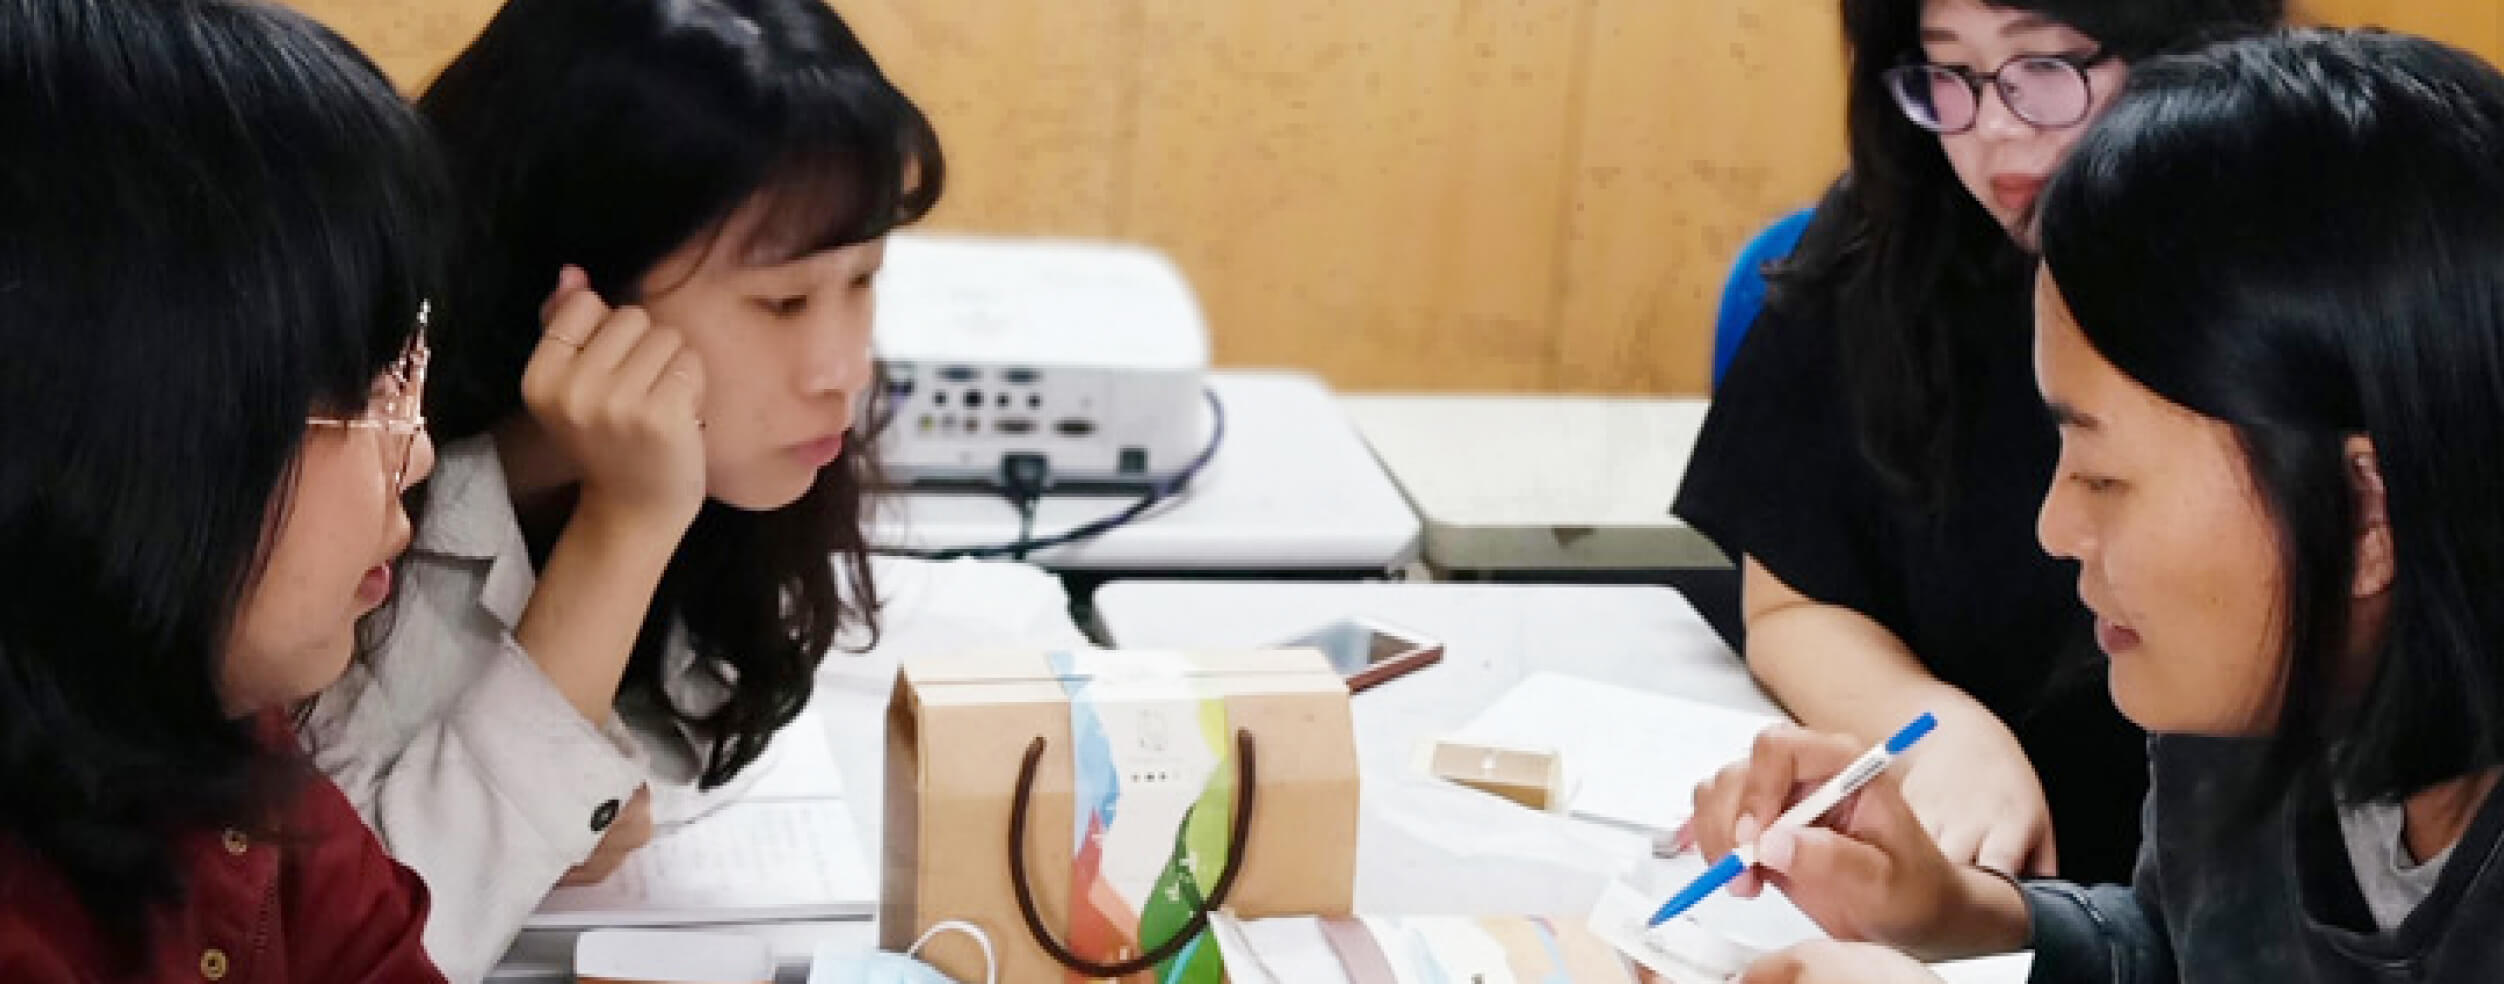
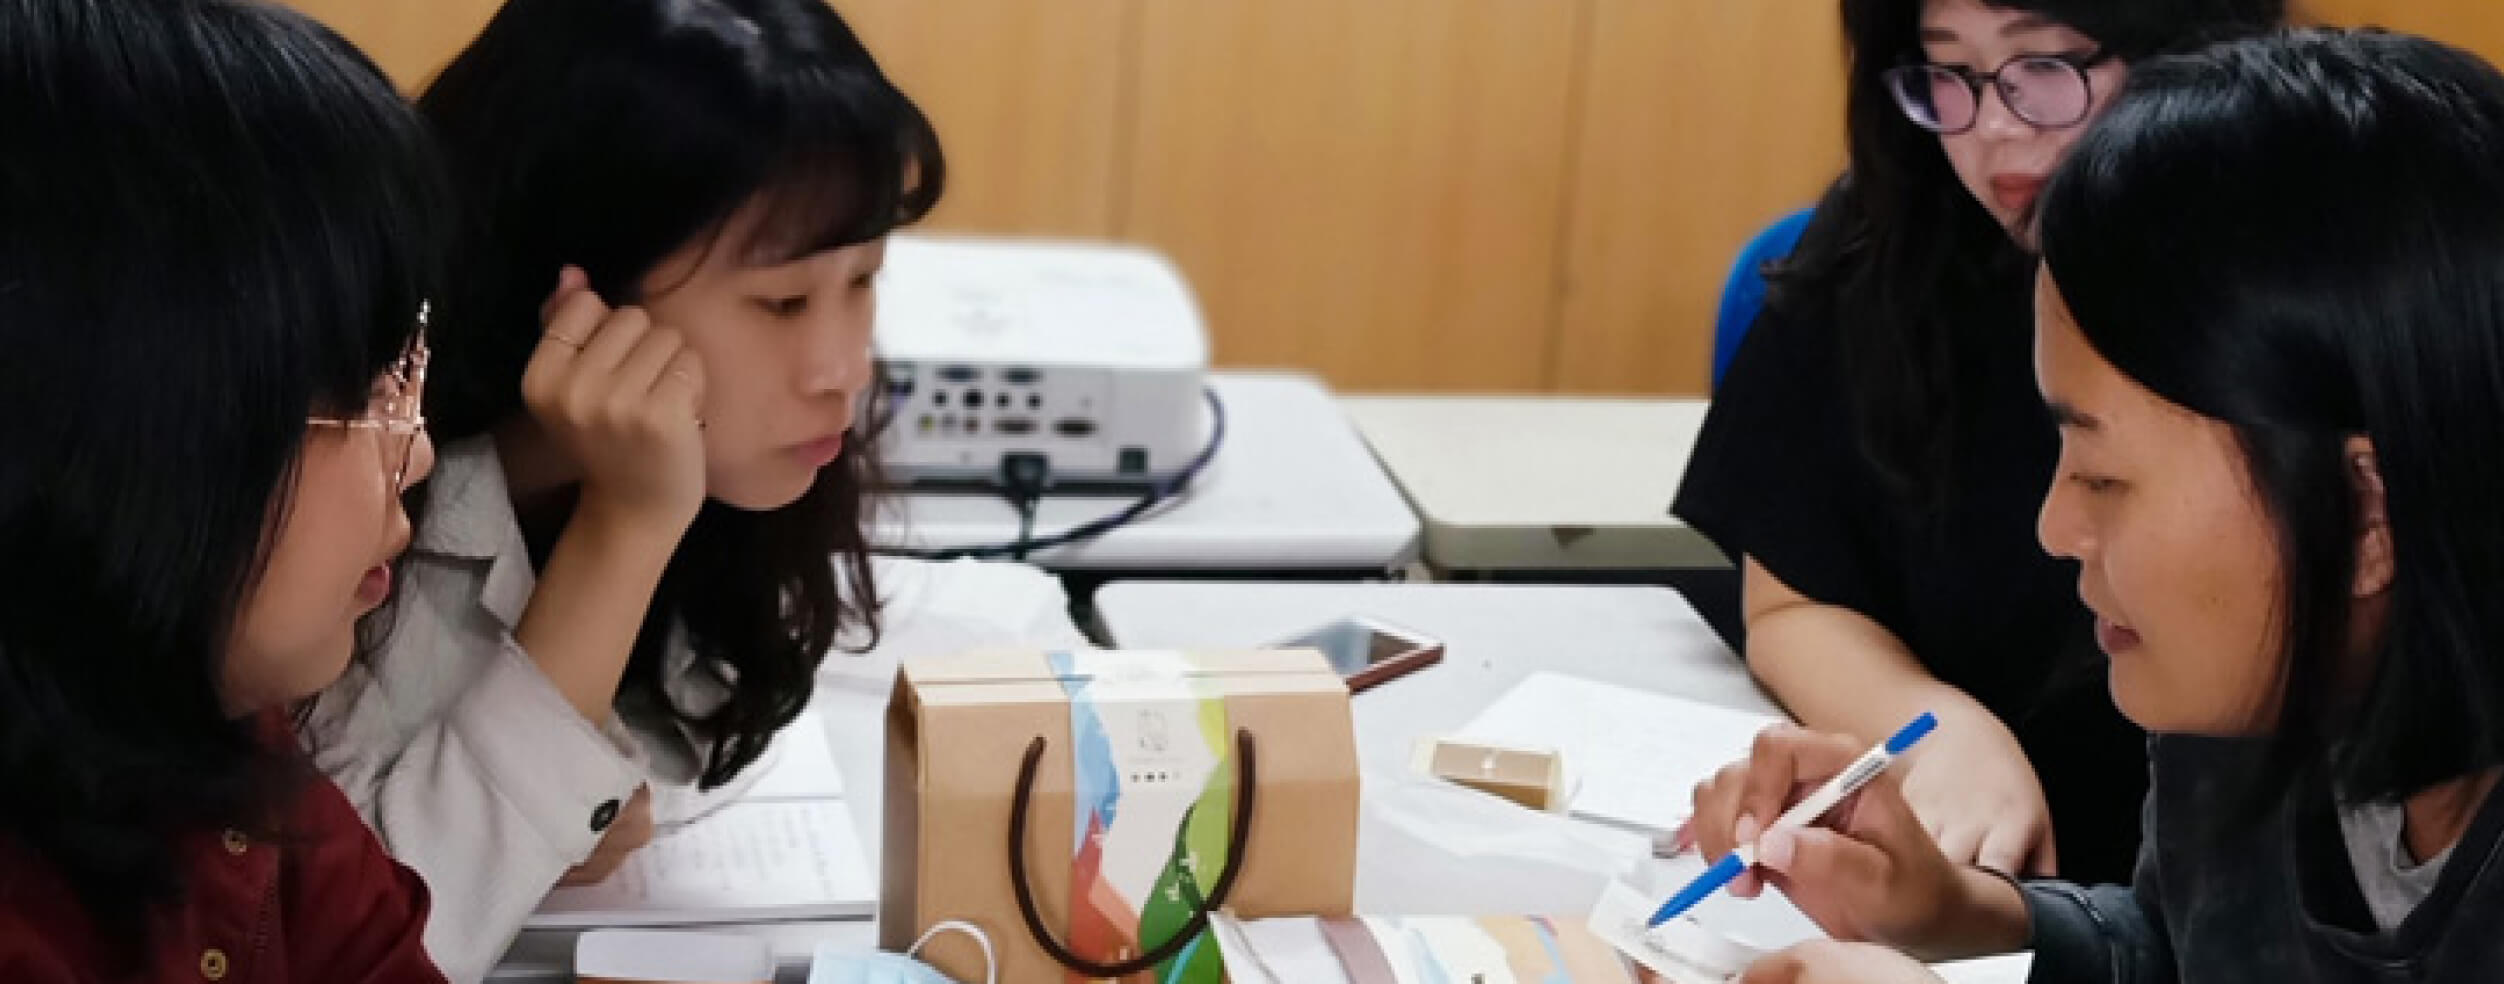
change article img

diff --git a/index.html b/index.html
@@ -176,7 +176,7 @@
 
 		<!-- 4 -->
 		<div class="article-box article-box-reverse">
-			<img class="article-img article-img-reverse" src="./img/article/article4.png" alt="article">
+			<img class="article-img article-img-reverse" src="./img/article/article4.jpg" alt="article">
 			<div class="article-text-box">
 				<img class="article-head-img article-head-img-last" src="./img/title-bg2.png" alt="article">
 				<div class="article-head">2021蹲點創新設計</div>
